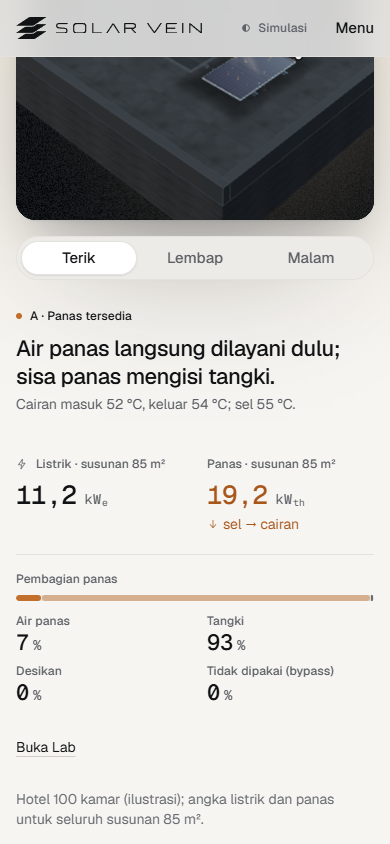
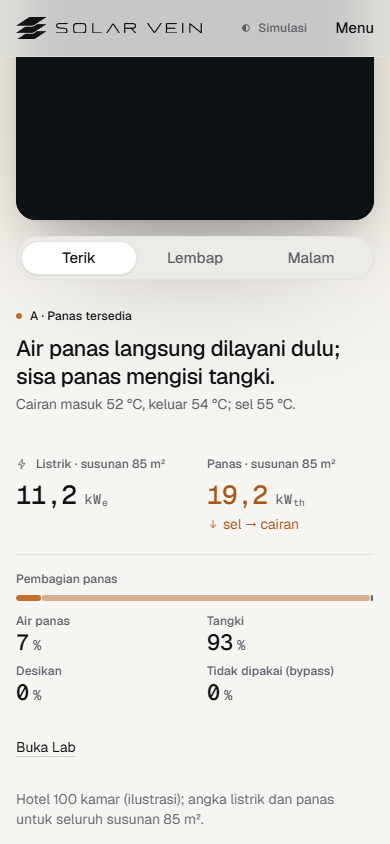
fix(sistem): pull-back trigger uses setFramingRaw (top 10% to top -35%); gate-2 screenshots

Changed region(s): [[0.0308, 0.0616, 0.9538, 0.2773], [0.7385, 0.154, 0.9538, 0.2464]]

diff --git a/src/sections/Hero.tsx b/src/sections/Hero.tsx
@@ -158,9 +158,9 @@ export default function Hero() {
     // camera pull-back, scrubbed with the card's approach (continuous 0..1; the camera springs after it)
     ScrollTrigger.create({
       trigger: '[data-stage-card]',
-      start: 'top 40%',
-      end: 'bottom 55%',
-      onUpdate: (self) => store.getState().setFraming(self.progress),
+      start: 'top 10%',
+      end: 'top -35%',
+      onUpdate: (self) => store.getState().setFramingRaw(self.progress),
     });
     if (root.current?.querySelector('[data-strip]')) gsap.fromTo('[data-strip] > *', { autoAlpha: 0, y: 16 }, { autoAlpha: 1, y: 0, stagger: 0.08, duration: 0.8, ease: 'power3.out', scrollTrigger: { trigger: '[data-stage-card]', start: 'top 45%', once: true } });
   });
